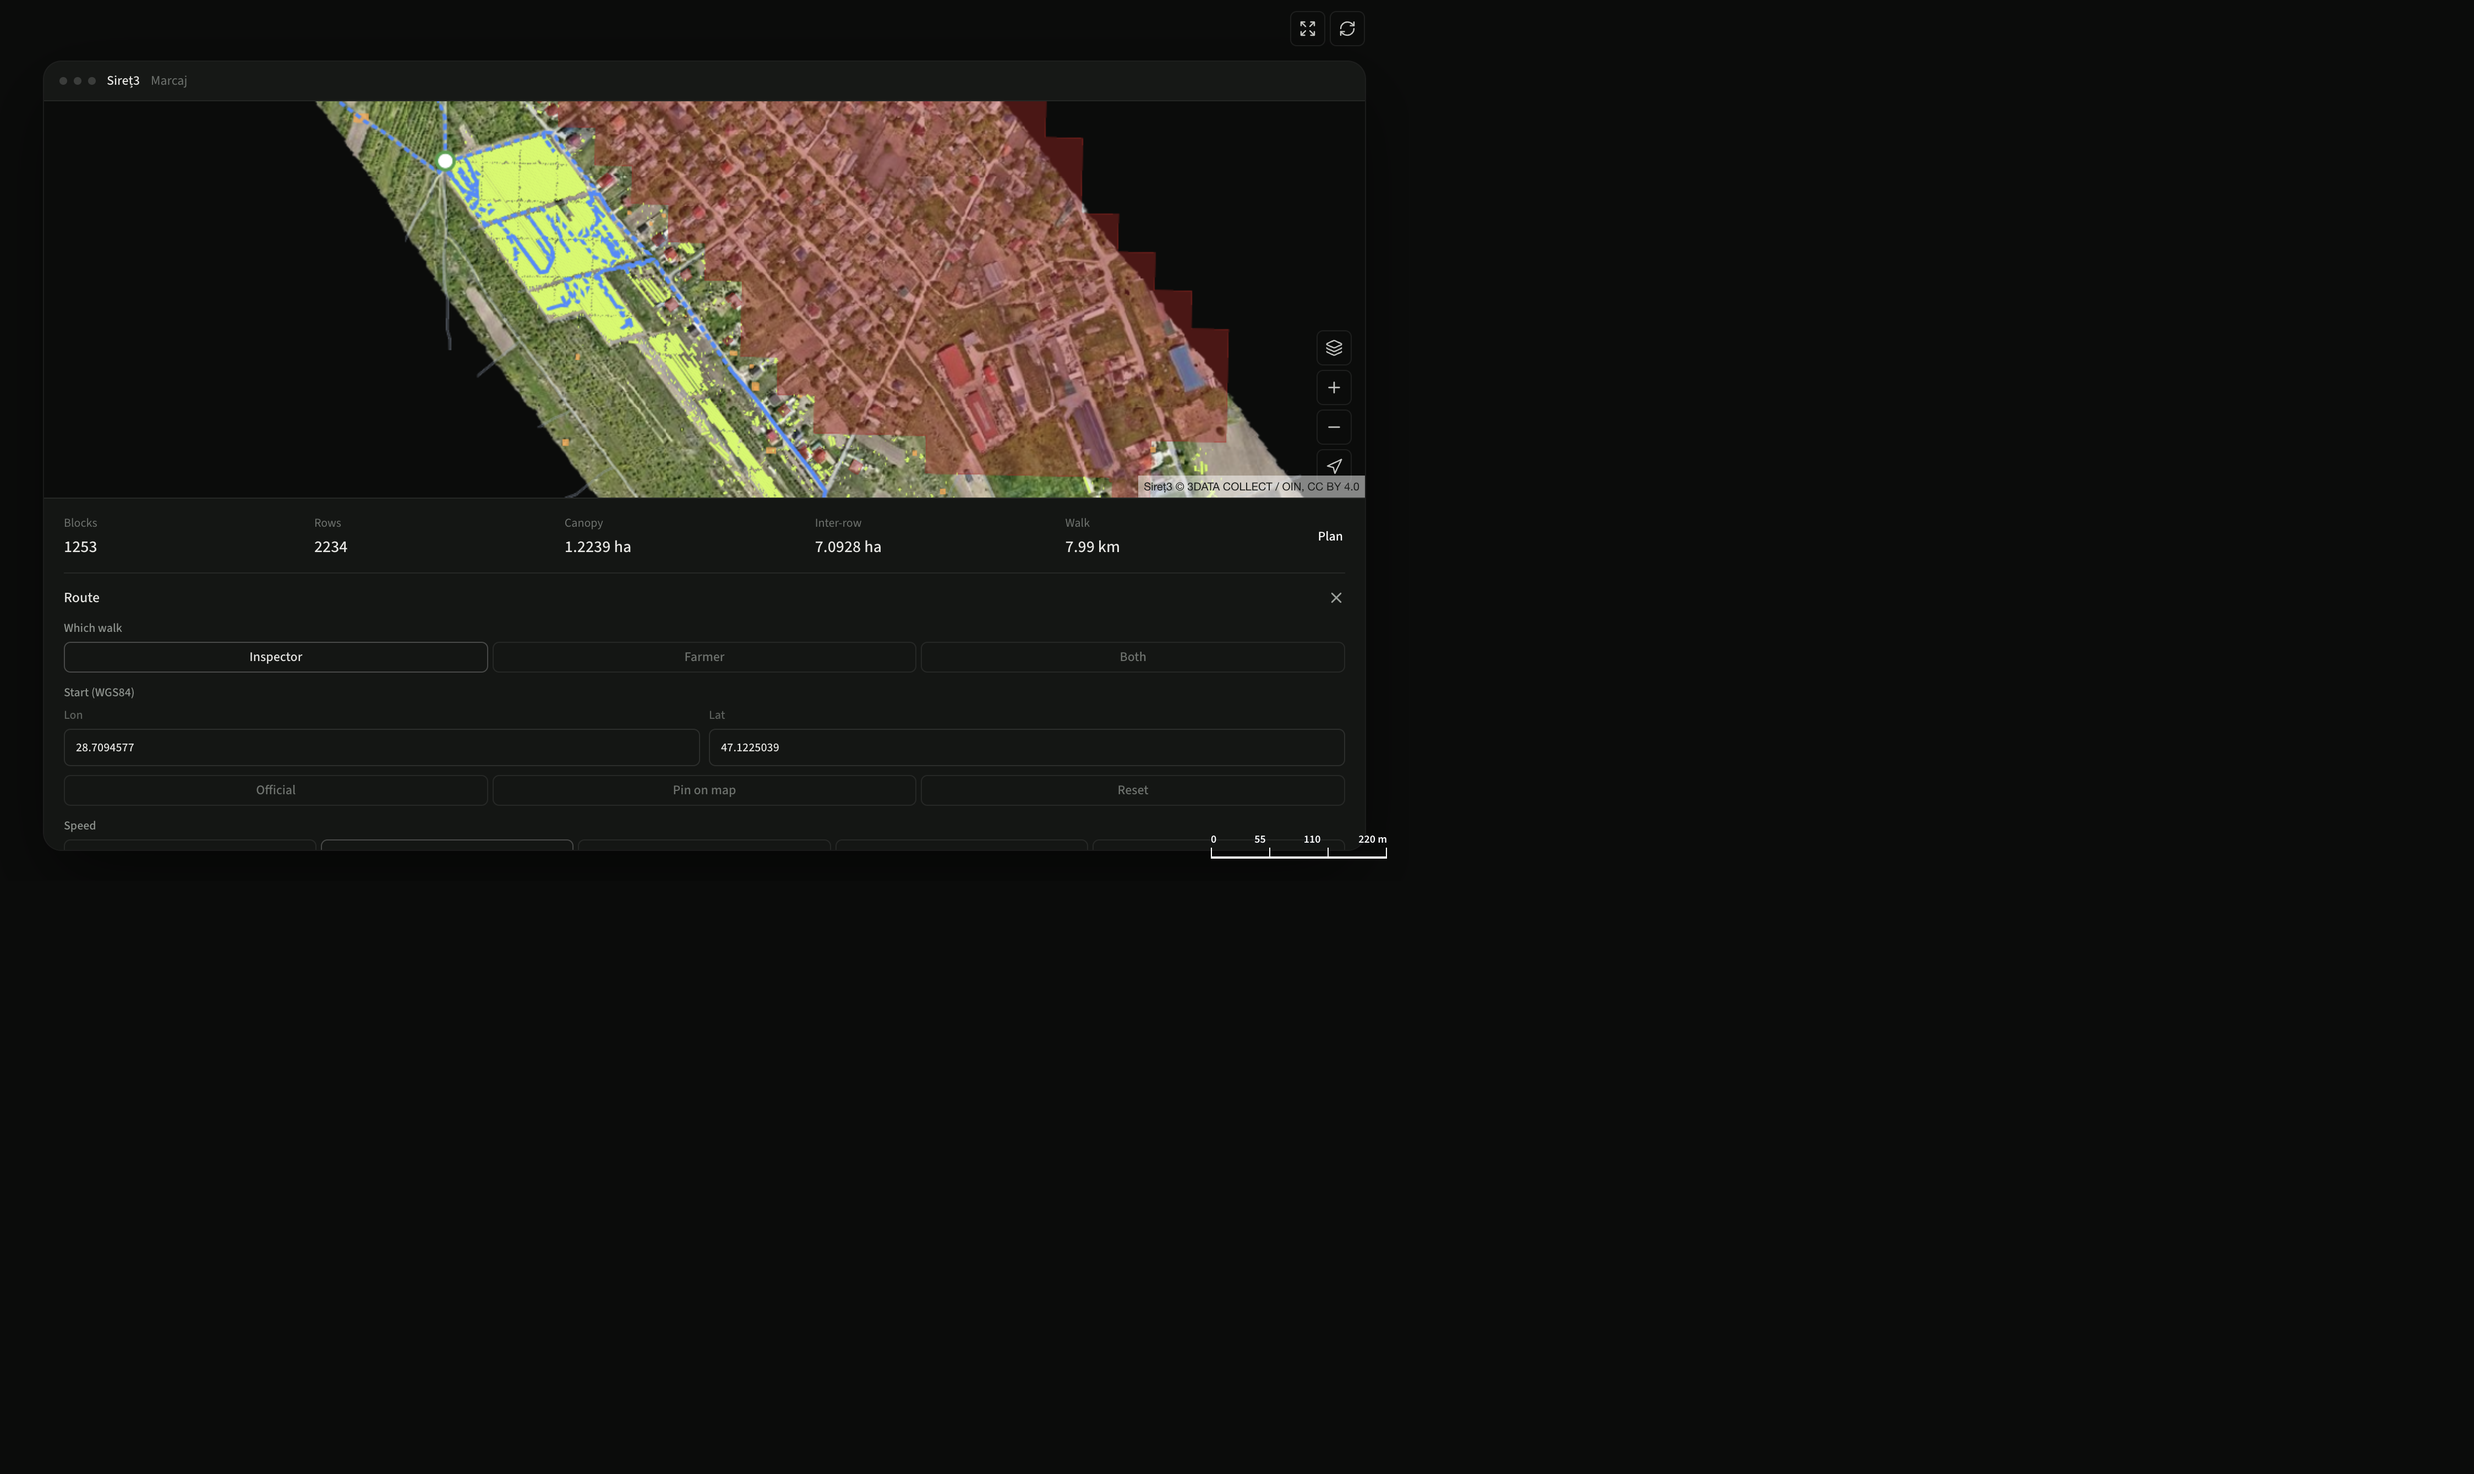
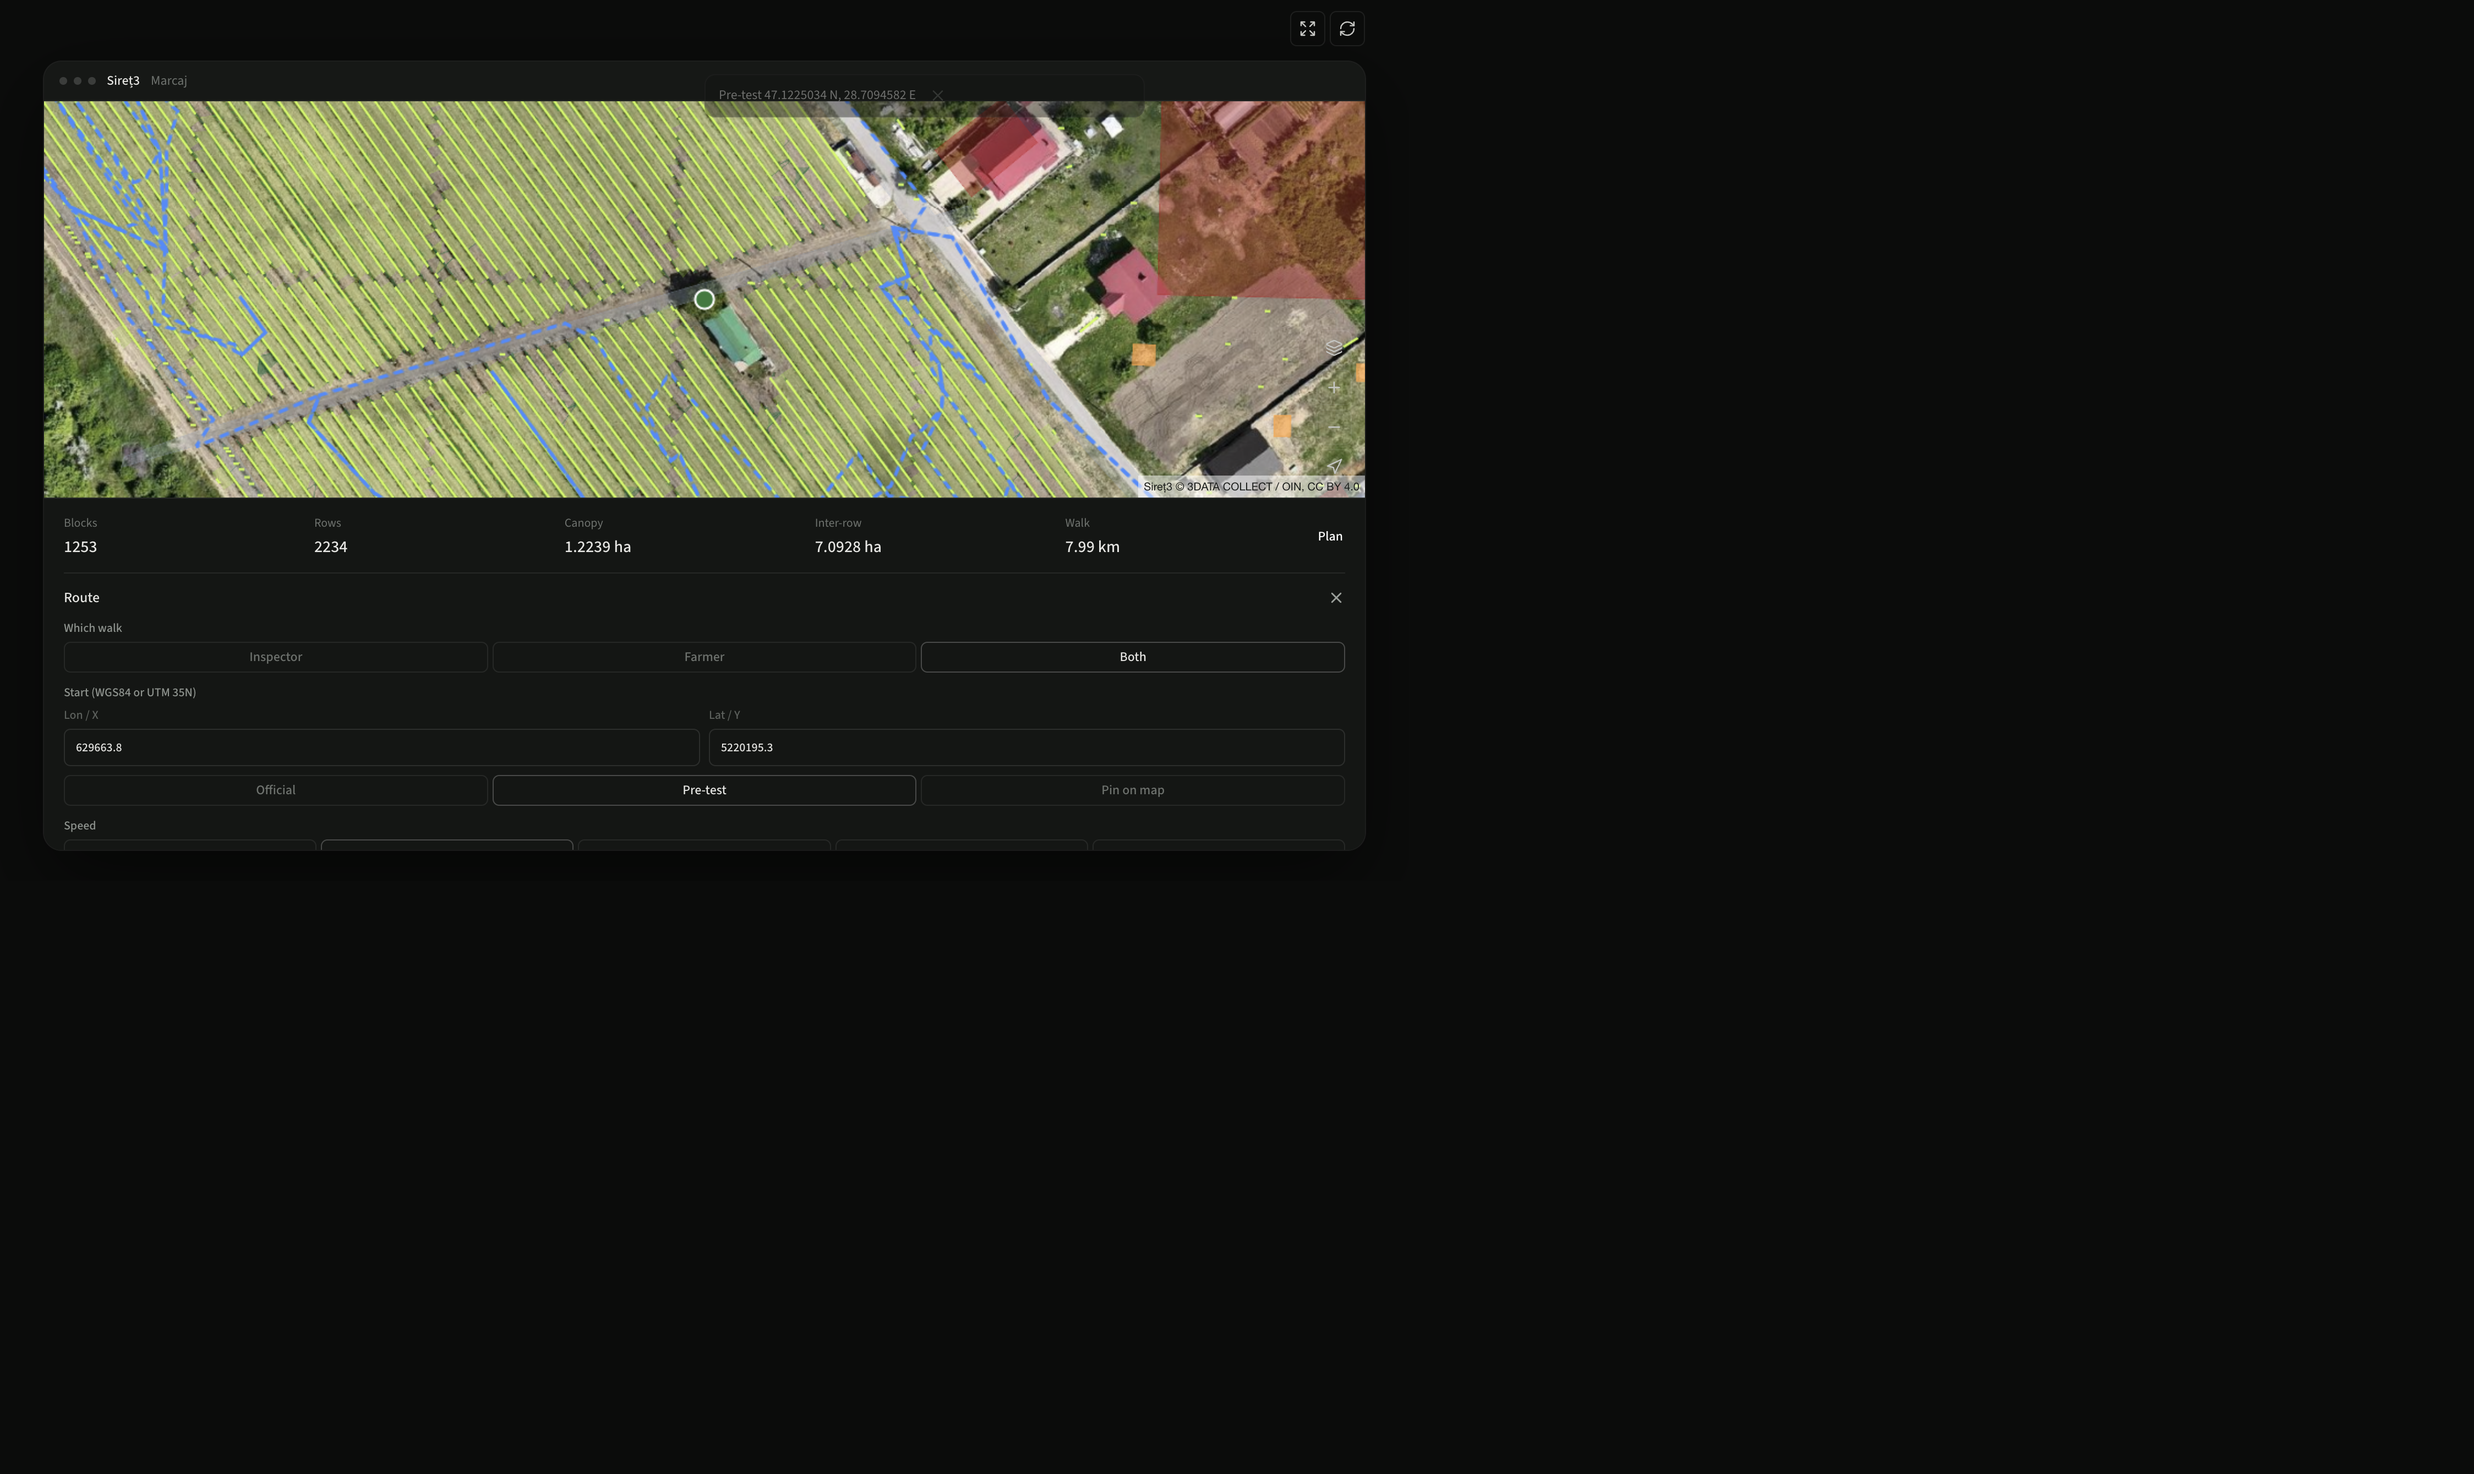
Accept organizer UTM on Plan and fly to a pretest pin.
Pasting 629663.8 / 5220195.3 used to be rejected as invalid WGS84, so Play silently stayed at the official start.

Changed region(s): [[0.0, 0.062, 0.5606, 0.3409], [0.0934, 0.4339, 0.1246, 0.4649]]

diff --git a/web/src/components/vineyard-map.tsx b/web/src/components/vineyard-map.tsx
@@ -18,14 +18,13 @@ import {
   X,
 } from "lucide-react";
 import { asset } from "@/lib/base-path";
-import { toLonLatCollection, utm35nToLonLat } from "@/lib/geo";
+import { parseStart, toLonLatCollection, utm35nToLonLat } from "@/lib/geo";
 import {
   cumDist,
   lerpBearing,
   lerpLonLat,
   lineCoords,
   nearestIndex,
-  parseLonLat,
   pointAtDistance,
   type LonLat,
 } from "@/lib/walk";
@@ -39,6 +38,9 @@ const SIRET3_XYZ =
 
 /** Official start in WGS84 (data/challenge/02_route/start.geojson). */
 const OFFICIAL_START: [number, number] = [28.7073776, 47.1230335];
+/** Organizer pre-test point (UTM 35N). Not the walk start. */
+const PRETEST_UTM = { x: "629663.8", y: "5220195.3" };
+const PRETEST_WGS: [number, number] = utm35nToLonLat(629663.8, 5220195.3);
 
 /** Study area of the 311 tiles (data/challenge/02_route/study_area.geojson). */
 const STUDY_BOUNDS: [[number, number], [number, number]] = [
@@ -366,10 +368,7 @@ export function VineyardMap() {
         mapRef.current = created;
         created.on("error", (ev) => {
           const msg = ev.error?.message || "";
-          if (msg.includes("siret3") && created.getLayer("siret3")) {
-            created.setPaintProperty("siret3", "raster-opacity", 0);
-          }
-          if (msg.includes("Worker") || msg.includes("actors") || msg.includes("siret3") || msg.includes("Failed to fetch")) return;
+          if (msg.includes("Worker") || msg.includes("actors") || msg.includes("Failed to fetch")) return;
         });
         created.on("zoom", () => setMapZoom(created.getZoom()));
 
@@ -400,6 +399,14 @@ export function VineyardMap() {
                   geometry: { type: "Point", coordinates: OFFICIAL_START },
                 },
               ],
+            },
+          });
+          created.addSource("query-pin", {
+            type: "geojson",
+            data: {
+              type: "Feature",
+              properties: {},
+              geometry: { type: "Point", coordinates: OFFICIAL_START },
             },
           });
 
@@ -488,6 +495,12 @@ export function VineyardMap() {
             paint: { "circle-color": "#438bff", "circle-radius": 7, "circle-stroke-width": 2, "circle-stroke-color": "#fff" },
           });
           created.addLayer({
+            id: "query-pin",
+            type: "circle",
+            source: "query-pin",
+            paint: { "circle-color": "#2f7a38", "circle-radius": 8, "circle-stroke-width": 2, "circle-stroke-color": "#fff" },
+          });
+          created.addLayer({
             id: "walker-pt",
             type: "circle",
             source: "walker",
@@ -500,10 +513,12 @@ export function VineyardMap() {
           });
           created.on("click", (e) => {
             if (!pickStartRef.current) return;
-            setStartLon(e.lngLat.lng.toFixed(7));
-            setStartLat(e.lngLat.lat.toFixed(7));
+            const lon = e.lngLat.lng.toFixed(7);
+            const lat = e.lngLat.lat.toFixed(7);
+            setStartLon(lon);
+            setStartLat(lat);
             setPickStart(false);
-            setMessage("Start pinned on the map");
+            showParsedStart(lon, lat);
           });
 
           for (const id of [
@@ -575,6 +590,43 @@ export function VineyardMap() {
 
   function recenter() {
     mapRef.current?.flyTo({ center: OFFICIAL_START, zoom: 17.6 });
+  }
+
+  function setQueryPin(pt: LonLat) {
+    const src = mapRef.current?.getSource("query-pin") as { setData: (data: GeoJSON.Feature) => void } | undefined;
+    src?.setData({
+      type: "Feature",
+      properties: {},
+      geometry: { type: "Point", coordinates: pt },
+    });
+  }
+
+  function showParsedStart(x = startLon, y = startLat) {
+    const pt = parseStart(x, y);
+    if (!pt) {
+      setMessage("Need WGS84 lon/lat or UTM 35N X/Y");
+      return null;
+    }
+    setQueryPin(pt);
+    mapRef.current?.flyTo({ center: pt, zoom: 17.8, pitch: 0, bearing: 0 });
+    setMessage(`Pin ${pt[0].toFixed(7)}, ${pt[1].toFixed(7)}`);
+    return pt;
+  }
+
+  function applyOfficialStart() {
+    stopWalk();
+    setStartLon(String(OFFICIAL_START[0]));
+    setStartLat(String(OFFICIAL_START[1]));
+    setPickStart(false);
+    showParsedStart(String(OFFICIAL_START[0]), String(OFFICIAL_START[1]));
+  }
+
+  function applyPretest() {
+    setStartLon(PRETEST_UTM.x);
+    setStartLat(PRETEST_UTM.y);
+    setPickStart(false);
+    const pt = showParsedStart(PRETEST_UTM.x, PRETEST_UTM.y);
+    if (pt) setMessage(`Pre-test ${PRETEST_WGS[1].toFixed(7)} N, ${PRETEST_WGS[0].toFixed(7)} E`);
   }
 
   async function toggleFullscreen() {
@@ -671,7 +723,7 @@ export function VineyardMap() {
     }
 
     const line = activeLine();
-    const pinned = parseLonLat(startLon, startLat) || OFFICIAL_START;
+    const pinned = parseStart(startLon, startLat) || OFFICIAL_START;
     if (line.length < 2) {
       setMessage("No walk line loaded");
       mapRef.current?.flyTo({ center: pinned, zoom: 16.6 });
@@ -821,29 +873,29 @@ export function VineyardMap() {
                 <Choice active={walkMode === "farmer"} onClick={() => setWalkMode("farmer")} label="Farmer" />
                 <Choice active={walkMode === "both"} onClick={() => setWalkMode("both")} label="Both" />
               </div>
-              <p className="field-label">Start (WGS84)</p>
+              <p className="field-label">Start (WGS84 or UTM 35N)</p>
               <div className="coord-row">
                 <label>
-                  Lon
-                  <input inputMode="decimal" value={startLon} onChange={(e) => setStartLon(e.target.value)} aria-label="Start longitude" />
+                  Lon / X
+                  <input inputMode="decimal" value={startLon} onChange={(e) => setStartLon(e.target.value)} onBlur={() => showParsedStart()} aria-label="Start longitude or UTM easting" />
                 </label>
                 <label>
-                  Lat
-                  <input inputMode="decimal" value={startLat} onChange={(e) => setStartLat(e.target.value)} aria-label="Start latitude" />
+                  Lat / Y
+                  <input inputMode="decimal" value={startLat} onChange={(e) => setStartLat(e.target.value)} onBlur={() => showParsedStart()} aria-label="Start latitude or UTM northing" />
                 </label>
               </div>
               <div className="segmented three flex gap-1">
                 <Choice
                   active={startLon === String(OFFICIAL_START[0]) && startLat === String(OFFICIAL_START[1])}
-                  onClick={() => {
-                    setStartLon(String(OFFICIAL_START[0]));
-                    setStartLat(String(OFFICIAL_START[1]));
-                    setPickStart(false);
-                  }}
+                  onClick={applyOfficialStart}
                   label="Official"
                 />
+                <Choice
+                  active={startLon === PRETEST_UTM.x && startLat === PRETEST_UTM.y}
+                  onClick={applyPretest}
+                  label="Pre-test"
+                />
                 <Choice active={pickStart} onClick={() => setPickStart((v) => !v)} label={pickStart ? "Tap map…" : "Pin on map"} />
-                <Choice active={false} onClick={stopWalk} label="Reset" />
               </div>
               <p className="field-label">Speed</p>
               <div className="speed-row flex gap-1">
@@ -1017,43 +1069,45 @@ export function VineyardMap() {
                   <Choice active={walkMode === "farmer"} onClick={() => setWalkMode("farmer")} label="Farmer" />
                   <Choice active={walkMode === "both"} onClick={() => setWalkMode("both")} label="Both" />
                 </div>
-                <p className="field-label">Start (WGS84)</p>
+                <p className="field-label">Start (WGS84 or UTM 35N)</p>
                 <div className="coord-row">
                   <label>
-                    Lon
+                    Lon / X
                     <input
                       inputMode="decimal"
                       value={startLon}
                       onChange={(e) => setStartLon(e.target.value)}
-                      aria-label="Start longitude"
+                      onBlur={() => showParsedStart()}
+                      aria-label="Start longitude or UTM easting"
                     />
                   </label>
                   <label>
-                    Lat
+                    Lat / Y
                     <input
                       inputMode="decimal"
                       value={startLat}
                       onChange={(e) => setStartLat(e.target.value)}
-                      aria-label="Start latitude"
+                      onBlur={() => showParsedStart()}
+                      aria-label="Start latitude or UTM northing"
                     />
                   </label>
                 </div>
                 <div className="segmented three flex gap-1">
                   <Choice
                     active={startLon === String(OFFICIAL_START[0]) && startLat === String(OFFICIAL_START[1])}
-                    onClick={() => {
-                      setStartLon(String(OFFICIAL_START[0]));
-                      setStartLat(String(OFFICIAL_START[1]));
-                      setPickStart(false);
-                    }}
+                    onClick={applyOfficialStart}
                     label="Official"
+                  />
+                  <Choice
+                    active={startLon === PRETEST_UTM.x && startLat === PRETEST_UTM.y}
+                    onClick={applyPretest}
+                    label="Pre-test"
                   />
                   <Choice
                     active={pickStart}
                     onClick={() => setPickStart((v) => !v)}
                     label={pickStart ? "Tap map…" : "Pin on map"}
                   />
-                  <Choice active={false} onClick={stopWalk} label="Reset" />
                 </div>
                 <p className="field-label">Speed</p>
                 <div className="speed-row flex gap-1">

diff --git a/web/src/lib/geo.ts b/web/src/lib/geo.ts
@@ -49,6 +49,16 @@ export function utm35nToLonLat(easting: number, northing: number): Position {
   return [(lon * 180) / Math.PI, (lat * 180) / Math.PI];
 }
 
+/** WGS84 lon/lat, or UTM 35N metres (organizer pretest X/Y). */
+export function parseStart(xRaw: string, yRaw: string): Position | null {
+  const x = Number(String(xRaw).trim());
+  const y = Number(String(yRaw).trim());
+  if (!Number.isFinite(x) || !Number.isFinite(y)) return null;
+  if (Math.abs(x) <= 180 && Math.abs(y) <= 90) return [x, y];
+  if (x > 1000 && y > 1_000_000) return utm35nToLonLat(x, y);
+  return null;
+}
+
 function mapCoords(coords: unknown, fn: (x: number, y: number) => Position): unknown {
   if (!Array.isArray(coords) || coords.length === 0) return coords;
   if (typeof coords[0] === "number") return fn(Number(coords[0]), Number(coords[1]));

diff --git a/web/src/lib/walk.ts b/web/src/lib/walk.ts
@@ -91,6 +91,6 @@ export function parseLonLat(lon: string, lat: string): LonLat | null {
   const x = Number(lon);
   const y = Number(lat);
   if (!Number.isFinite(x) || !Number.isFinite(y)) return null;
-  if (Math.abs(x) > 180 || Math.abs(y) > 90) return null;
-  return [x, y];
+  if (Math.abs(x) <= 180 && Math.abs(y) <= 90) return [x, y];
+  return null;
 }
